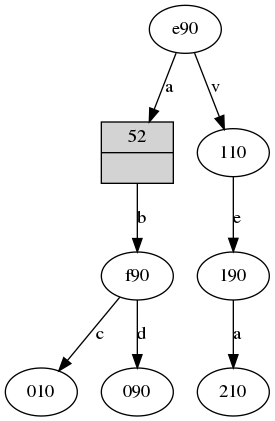
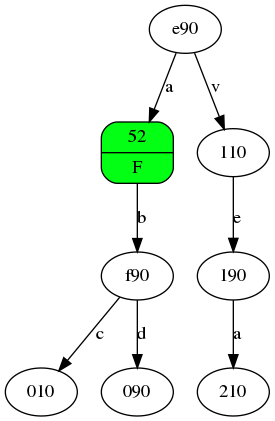
plotted trie

Changed region(s): [[0.3491, 0.2779, 0.64, 0.4632]]

diff --git a/Trie/trie.cpp b/Trie/trie.cpp
@@ -26,29 +26,44 @@ void Trie::insert(std::string word){
 
 
 // A1 -> A2 [label=f];
+//	f10[shape=Mrecord, style=filled, fillcolor="#02ff14" , label="{ <data> 52  |  <ew>F   } "];
+
 void Trie::printTrie(NodeTrie *&root){
      std::fstream file;
      file.open("AFD.dot", std::ios::out);
      file << "digraph ll {" << std::endl;
 
      queue< NodeTrie* > *treeQueue = new queue< NodeTrie* >();
+     queue< NodeTrie* > *temporaly = new queue< NodeTrie* >();
      treeQueue->push(root);
+     temporaly->push(root);
      NodeTrie *nodo;
      string valueNode = "INITIAL";
+     bool ew = true;
+     //RECORRIDO DE TODOS LOS NODOS.
      while( !treeQueue->empty() ){
          nodo = treeQueue->front();treeQueue->pop();
-         if(nodo->children.empty()){
-             //cout << nodo->isEndOfWord() << endl;
-             file << "\t" <<
-         }
+         ew = nodo->isEndOfWord();
+         // if(nodo->children.empty()){
+         //     //cout << nodo->isEndOfWord() << endl;
+         //     file << "\t" <<"\""<<nodo <<"\"" << " -> " << "\""<< "any"<<"\""  << endl;
+         // }
          for(auto it = nodo->children.begin() ; it != nodo->children.end(); it++){
-            cout << it->first << " ";
+            //cout << it->first << " ";
             treeQueue->push(it->second);
-            file << "\t" <<"\""<<nodo <<"\"" << " -> " << "\""<< it->second<<"\"" <<
-                    " [label=" << it->first << "];" << endl;
+            temporaly->push(it->second);
+            //file << "\t" <<"\""<<nodo <<"\"" << " -> " << "\""<< it->second<<"\"" <<
+                    //" [label=" << it->first << "];" << endl;
+            file<<"\t" << nodo << "[shape=Mrecord, style=filled, fillcolor="<<GREEN
+                << ", label="<<"\""<<"{ <data> " <<nodo<<" | <ew> "<< ew <<" }" <<"\""<<"];"<<endl;
          }
-    }
+     }
      delete treeQueue;
+
+     //BUCLE TO TRANSITIONS
+     while(0){
+
+     }
      file << "}";
      file.close();
 }
@@ -59,4 +74,15 @@ void Trie::printTrie(NodeTrie *&root){
 void Trie::printTrieConsole(){
     printTrie(m_pRoot);
     system("dot -Tpng AFD.dot -o AFD.png");
+}
+
+/*
+    RECORRE EL TRI EL PREORDEN
+*/
+void Trie::printPreOrden(NodeTrie *root){
+    //PRINT ONLY CHILDREN,ALFABETO
+    for(auto it = root->children.begin() ; it!= root->children.end();it++ ){
+        cout << it->first << " ";
+        printPreOrden(it->second);
+    }
 }

diff --git a/Trie/trie.h b/Trie/trie.h
@@ -4,12 +4,13 @@
 #include<fstream>
 #include<queue>
 using namespace std;
-
 #include"nodeTrie.h"
 
+#define VIOLET "#ff31ff"
+#define GREEN "#02ff14"
 
 class Trie{
-private:
+public:
     NodeTrie *m_pRoot;
 public:
     Trie(){
@@ -24,6 +25,7 @@ public:
 
     void printTrie(NodeTrie *&root);
     void printTrieConsole();
+    void printPreOrden(NodeTrie *root);
 };
 
 

diff --git a/Trie/main.cpp b/Trie/main.cpp
@@ -9,6 +9,8 @@ int main(){;
     trie->insert("a");
     trie->printTrieConsole();
 
+    trie->printPreOrden(trie->m_pRoot);
+
 
 
     delete trie;
